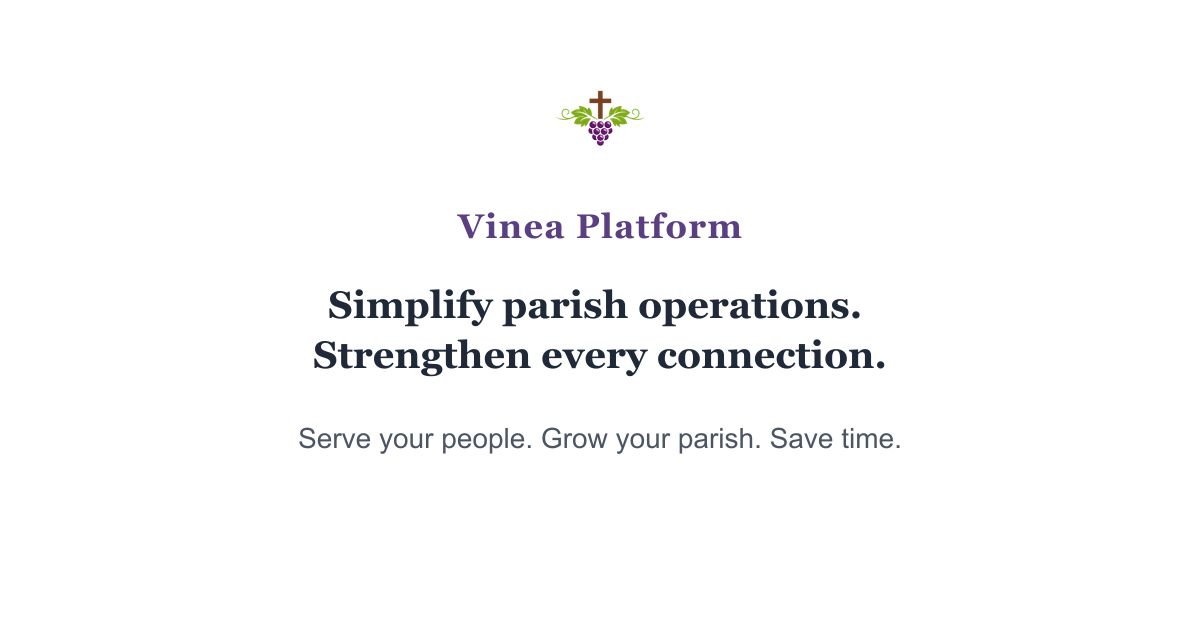
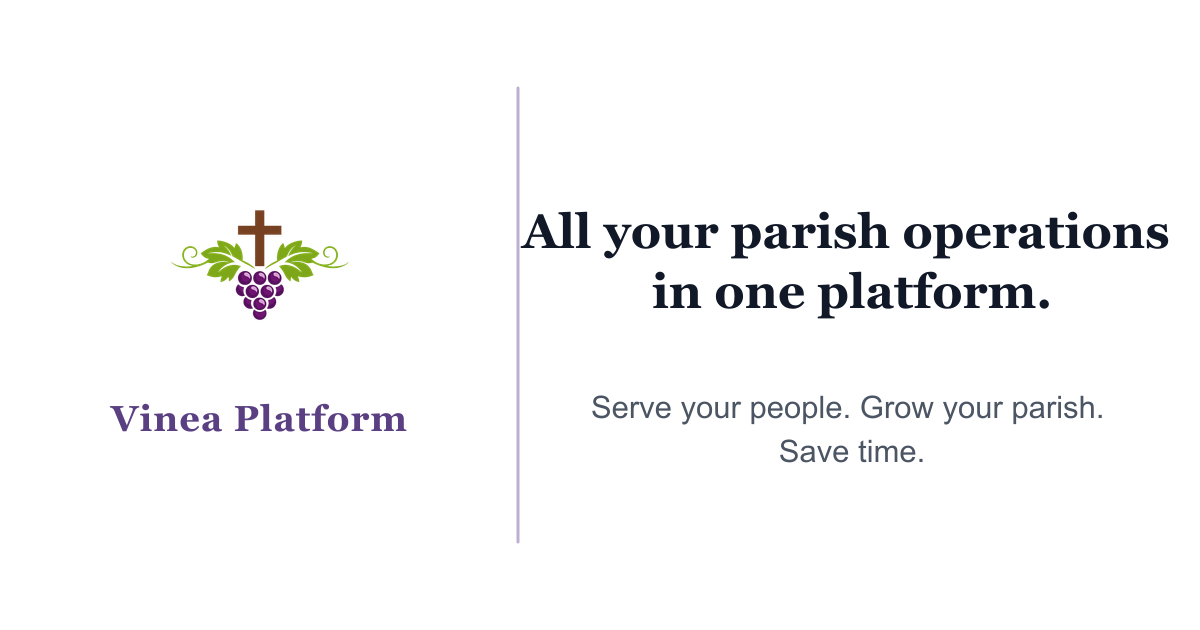
Improve social sharing preview image

diff --git a/lib/productBranding.ts b/lib/productBranding.ts
@@ -20,4 +20,4 @@ export const SITE_DOCUMENT_DESCRIPTION = 'All your parish operations in one plat
 export const SITE_OG_IMAGE_PATH = '/og-image.png'
 
 export const SITE_OG_IMAGE_ALT =
-  'Vinea Platform — Simplify parish operations. Strengthen every connection.'
+  'Vinea Platform — All your parish operations in one platform.'